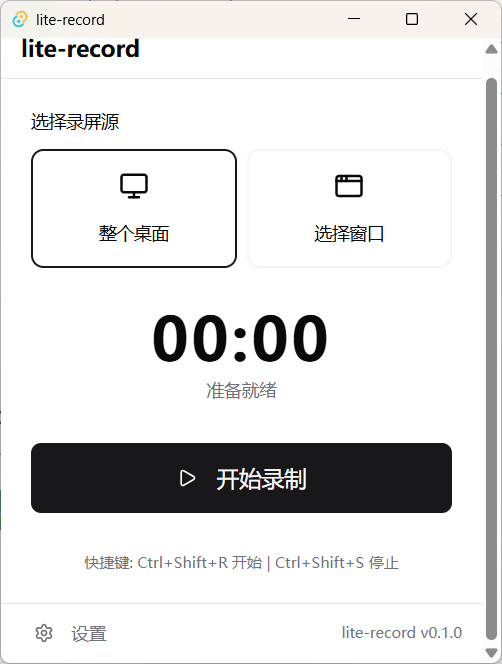
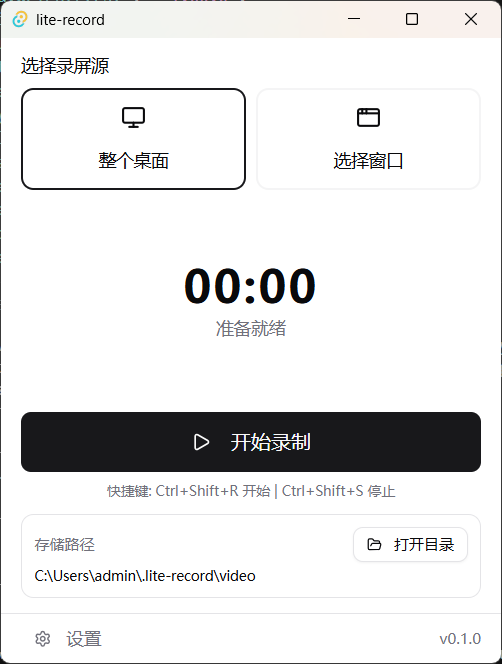
feat: add app message handling for error notifications and improve user feedback

diff --git a/tests/unit/useRecorder.test.ts b/tests/unit/useRecorder.test.ts
@@ -1,0 +1,114 @@
+import { defineComponent } from 'vue'
+import { describe, it, expect, vi, beforeEach } from 'vitest'
+import { mount, flushPromises } from '@vue/test-utils'
+import { invoke } from '@tauri-apps/api/core'
+import { register } from '@tauri-apps/plugin-global-shortcut'
+import { useRecorder } from '@/composables/useRecorder'
+
+const mockInvoke = vi.mocked(invoke)
+const mockRegister = vi.mocked(register)
+
+function mountRecorder() {
+  const Comp = defineComponent({
+    setup() {
+      return useRecorder()
+    },
+    template: '<div />',
+  })
+  return mount(Comp)
+}
+
+describe('useRecorder', () => {
+  beforeEach(() => {
+    vi.clearAllMocks()
+    mockInvoke.mockImplementation(async (cmd: string) => {
+      if (cmd === 'list_windows') return []
+      if (cmd === 'get_recording_state') return false
+      if (cmd === 'start_recording') return 'recording_20260101_120000'
+      if (cmd === 'stop_recording') return 'C:\\Users\\admin\\.lite-record\\video\\out.mp4'
+      return null
+    })
+  })
+
+  it('并发 stopRecording 仅调用一次 stop_recording', async () => {
+    let resolveStop: (value: string) => void
+    const stopPromise = new Promise<string>((resolve) => {
+      resolveStop = resolve
+    })
+
+    mockInvoke.mockImplementation(async (cmd: string) => {
+      if (cmd === 'list_windows') return []
+      if (cmd === 'get_recording_state') return false
+      if (cmd === 'start_recording') return 'recording_20260101_120000'
+      if (cmd === 'stop_recording') return stopPromise
+      return null
+    })
+
+    const alertSpy = vi.fn()
+    vi.stubGlobal('alert', alertSpy)
+
+    const wrapper = mountRecorder()
+    await flushPromises()
+
+    await wrapper.vm.startRecording()
+    await flushPromises()
+
+    const first = wrapper.vm.stopRecording()
+    const second = wrapper.vm.stopRecording()
+
+    resolveStop!('C:\\Users\\admin\\.lite-record\\video\\out.mp4')
+    await Promise.all([first, second])
+    await flushPromises()
+
+    expect(
+      mockInvoke.mock.calls.filter(([cmd]) => cmd === 'stop_recording'),
+    ).toHaveLength(1)
+    expect(alertSpy).not.toHaveBeenCalled()
+    expect(wrapper.vm.isRecording).toBe(false)
+
+    vi.unstubAllGlobals()
+  })
+
+  it('快捷键重复触发 stop 时不弹错', async () => {
+    let stopCalls = 0
+    mockInvoke.mockImplementation(async (cmd: string) => {
+      if (cmd === 'list_windows') return []
+      if (cmd === 'get_recording_state') return false
+      if (cmd === 'start_recording') return 'recording_20260101_120000'
+      if (cmd === 'stop_recording') {
+        stopCalls++
+        if (stopCalls === 1) return 'C:\\Users\\admin\\.lite-record\\video\\out.mp4'
+        throw '没有正在进行的录制'
+      }
+      return null
+    })
+
+    const alertSpy = vi.fn()
+    vi.stubGlobal('alert', alertSpy)
+
+    const wrapper = mountRecorder()
+    await flushPromises()
+
+    await wrapper.vm.startRecording()
+    await flushPromises()
+
+    const stopShortcut = mockRegister.mock.calls.find(
+      ([shortcut]) => shortcut === 'CommandOrControl+Shift+S',
+    )?.[1] as (() => void) | undefined
+
+    expect(stopShortcut).toBeTypeOf('function')
+
+    stopShortcut!()
+    await flushPromises()
+    stopShortcut!()
+    await flushPromises()
+
+    expect(
+      mockInvoke.mock.calls.filter(([cmd]) => cmd === 'stop_recording'),
+    ).toHaveLength(1)
+    expect(alertSpy).not.toHaveBeenCalled()
+    expect(wrapper.vm.isRecording).toBe(false)
+
+    vi.unstubAllGlobals()
+  })
+})

diff --git a/src/composables/useRecorder.ts b/src/composables/useRecorder.ts
@@ -2,6 +2,8 @@ import { ref, onMounted, onUnmounted } from 'vue'
 import { invoke } from '@tauri-apps/api/core'
 import { listen } from '@tauri-apps/api/event'
 import { register, unregister } from '@tauri-apps/plugin-global-shortcut'
+import { useAppMessage } from '@/composables/useAppMessage'
+import { restoreMainWindow } from '@/utils/restoreMainWindow'
 
 export type RecordingSource = 'desktop' | 'window'
 
@@ -17,6 +19,7 @@ export function formatDuration(seconds: number): string {
 }
 
 export function useRecorder() {
+  const { showError } = useAppMessage()
   const isRecording = ref(false)
   const recordingSource = ref<RecordingSource>('desktop')
   const selectedWindowId = ref<number | null>(null)
@@ -25,6 +28,7 @@ export function useRecorder() {
   const durationText = ref('00:00')
   const lastOutputPath = ref<string | null>(null)
   let timerInterval: ReturnType<typeof setInterval> | null = null
+  let stopInFlight = false
 
   function clearTimer() {
     if (timerInterval) {
@@ -67,7 +71,7 @@ export function useRecorder() {
     if (isRecording.value) return
 
     if (recordingSource.value === 'window' && selectedWindowId.value == null) {
-      alert('请先选择一个窗口')
+      showError('请先选择一个窗口')
       return
     }
 
@@ -81,25 +85,39 @@ export function useRecorder() {
       startTimer()
     } catch (error) {
       console.error('开始录制失败:', error)
-      alert(`开始录制失败: ${error}`)
+      showError(`开始录制失败: ${error}`)
       isRecording.value = false
       clearTimer()
       durationText.value = '00:00'
     }
   }
 
-  async function stopRecording() {
-    if (!isRecording.value) return
+  function resetRecordingUi() {
+    isRecording.value = false
+    clearTimer()
+  }
 
+  async function stopRecording() {
+    if (!isRecording.value || stopInFlight) return
+
+    stopInFlight = true
     try {
       const path = await invoke<string>('stop_recording')
       lastOutputPath.value = path
+      resetRecordingUi()
     } catch (error) {
+      const message = String(error)
+      if (message.includes('没有正在进行的录制')) {
+        resetRecordingUi()
+        await syncRecordingState()
+        await restoreMainWindow()
+        return
+      }
       console.error('停止录制失败:', error)
-      alert(`停止录制失败: ${error}`)
+      await restoreMainWindow()
+      showError(`停止录制失败: ${error}`)
     } finally {
-      isRecording.value = false
-      clearTimer()
+      stopInFlight = false
     }
   }
 
@@ -113,6 +131,7 @@ export function useRecorder() {
 
   async function registerShortcuts() {
     try {
+      await unregisterShortcuts()
       await register('CommandOrControl+Shift+R', () => {
         if (!isRecording.value) void startRecording()
       })

diff --git a/src/composables/useAppMessage.ts b/src/composables/useAppMessage.ts
@@ -1,0 +1,26 @@
+import { ref } from 'vue'
+
+const message = ref<string | null>(null)
+let hideTimer: ReturnType<typeof setTimeout> | null = null
+
+export function useAppMessage() {
+  function clearMessage() {
+    message.value = null
+    if (hideTimer) {
+      clearTimeout(hideTimer)
+      hideTimer = null
+    }
+  }
+
+  function showError(text: string) {
+    clearMessage()
+    message.value = text
+    hideTimer = setTimeout(clearMessage, 8000)
+  }
+
+  return {
+    message,
+    showError,
+    clearMessage,
+  }
+}

diff --git a/src/App.vue b/src/App.vue
@@ -1,11 +1,12 @@
 <script setup lang="ts">
 import { watch } from 'vue'
-import { Play, Square, Monitor, AppWindow, Settings, FolderOpen } from '@lucide/vue'
+import { Play, Square, Monitor, AppWindow, Settings, FolderOpen, X } from '@lucide/vue'
 import { Button } from '@/components/ui/button'
 import { RadioGroup, RadioGroupItem } from '@/components/ui/radio-group'
 import { Label } from '@/components/ui/label'
 import { useRecorder } from '@/composables/useRecorder'
 import { useVideoDir } from '@/composables/useVideoDir'
+import { useAppMessage } from '@/composables/useAppMessage'
 
 const {
   isRecording,
@@ -19,6 +20,7 @@ const {
 } = useRecorder()
 
 const { videoDir, isOpening, openVideoDir } = useVideoDir()
+const { message, clearMessage } = useAppMessage()
 
 watch(recordingSource, async (source) => {
   if (source === 'window') {
@@ -30,6 +32,24 @@ watch(recordingSource, async (source) => {
 
 <template>
   <div class="h-full overflow-hidden bg-background flex flex-col" data-testid="app-root">
+    <div
+      v-if="message"
+      class="shrink-0 flex items-start gap-2 px-4 py-2.5 bg-destructive/10 border-b border-destructive/20 text-destructive text-sm"
+      role="alert"
+      data-testid="app-message"
+    >
+      <p class="flex-1 leading-snug">{{ message }}</p>
+      <button
+        type="button"
+        class="shrink-0 rounded p-1 hover:bg-destructive/10 transition-colors"
+        aria-label="关闭提示"
+        data-testid="btn-dismiss-message"
+        @click="clearMessage"
+      >
+        <X class="h-4 w-4" />
+      </button>
+    </div>
+
     <main class="flex-1 min-h-0 flex flex-col items-center px-4 py-3 gap-3 overflow-hidden">
       <div class="w-full max-w-sm shrink-0">
         <Label class="text-sm font-medium mb-2 block">选择录屏源</Label>

diff --git a/src/utils/restoreMainWindow.ts b/src/utils/restoreMainWindow.ts
@@ -1,0 +1,12 @@
+import { getCurrentWindow } from '@tauri-apps/api/window'
+
+export async function restoreMainWindow(): Promise<void> {
+  try {
+    const window = getCurrentWindow()
+    await window.unminimize()
+    await window.show()
+    await window.setFocus()
+  } catch (error) {
+    console.warn('恢复主窗口失败:', error)
+  }
+}

diff --git a/tests/unit/App.test.ts b/tests/unit/App.test.ts
@@ -117,7 +117,7 @@ describe('App.vue', () => {
     expect(mockInvoke).toHaveBeenCalledWith('stop_recording')
   })
 
-  it('处理录制错误后恢复初始状态', async () => {
+  it('处理录制错误后显示可关闭提示并恢复初始状态', async () => {
     mockInvoke.mockImplementation(async (cmd: string) => {
       if (cmd === 'list_windows') return []
       if (cmd === 'get_recording_state') return false
@@ -125,17 +125,19 @@ describe('App.vue', () => {
       return null
     })
 
-    vi.stubGlobal('alert', vi.fn())
-
     const wrapper = mount(App)
     await flushPromises()
 
     await wrapper.find('[data-testid="btn-start"]').trigger('click')
     await flushPromises()
 
+    expect(wrapper.find('[data-testid="app-message"]').exists()).toBe(true)
+    expect(wrapper.find('[data-testid="app-message"]').text()).toContain('录制失败')
     expect(wrapper.find('[data-testid="btn-start"]').exists()).toBe(true)
     expect(wrapper.find('[data-testid="status-text"]').text()).toContain('准备就绪')
 
-    vi.unstubAllGlobals()
+    await wrapper.find('[data-testid="btn-dismiss-message"]').trigger('click')
+    await flushPromises()
+    expect(wrapper.find('[data-testid="app-message"]').exists()).toBe(false)
   })
 })

diff --git a/tests/mocks/tauri-window.ts b/tests/mocks/tauri-window.ts
@@ -1,0 +1,9 @@
+import { vi } from 'vitest'
+
+vi.mock('@tauri-apps/api/window', () => ({
+  getCurrentWindow: vi.fn(() => ({
+    unminimize: vi.fn().mockResolvedValue(undefined),
+    show: vi.fn().mockResolvedValue(undefined),
+    setFocus: vi.fn().mockResolvedValue(undefined),
+  })),
+}))

diff --git a/src/composables/useVideoDir.ts b/src/composables/useVideoDir.ts
@@ -1,7 +1,9 @@
 import { ref, onMounted } from 'vue'
 import { invoke } from '@tauri-apps/api/core'
+import { useAppMessage } from '@/composables/useAppMessage'
 
 export function useVideoDir() {
+  const { showError } = useAppMessage()
   const videoDir = ref('')
   const isOpening = ref(false)
 
@@ -22,7 +24,7 @@ export function useVideoDir() {
       await invoke('open_video_dir')
     } catch (error) {
       console.error('打开存储目录失败:', error)
-      alert(`打开目录失败: ${error}`)
+      showError(`打开目录失败: ${error}`)
     } finally {
       isOpening.value = false
     }

diff --git a/tests/setup.ts b/tests/setup.ts
@@ -1,5 +1,7 @@
 import { vi } from 'vitest'
 
+import './mocks/tauri-window'
+
 vi.mock('@tauri-apps/api/core', () => ({
   invoke: vi.fn(),
 }))